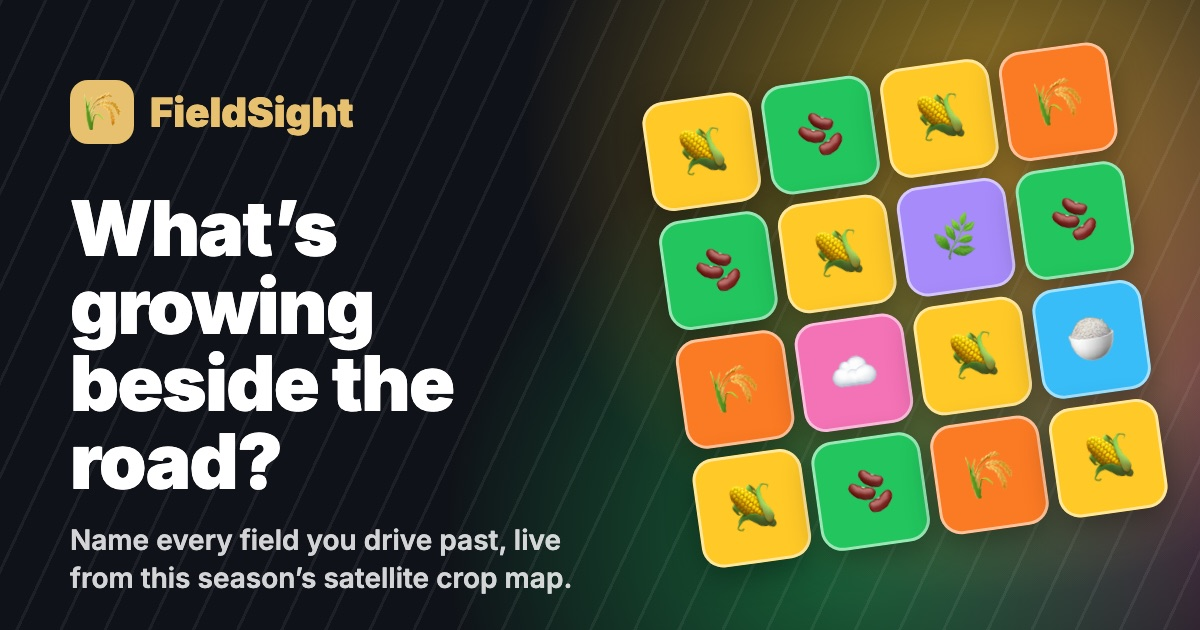
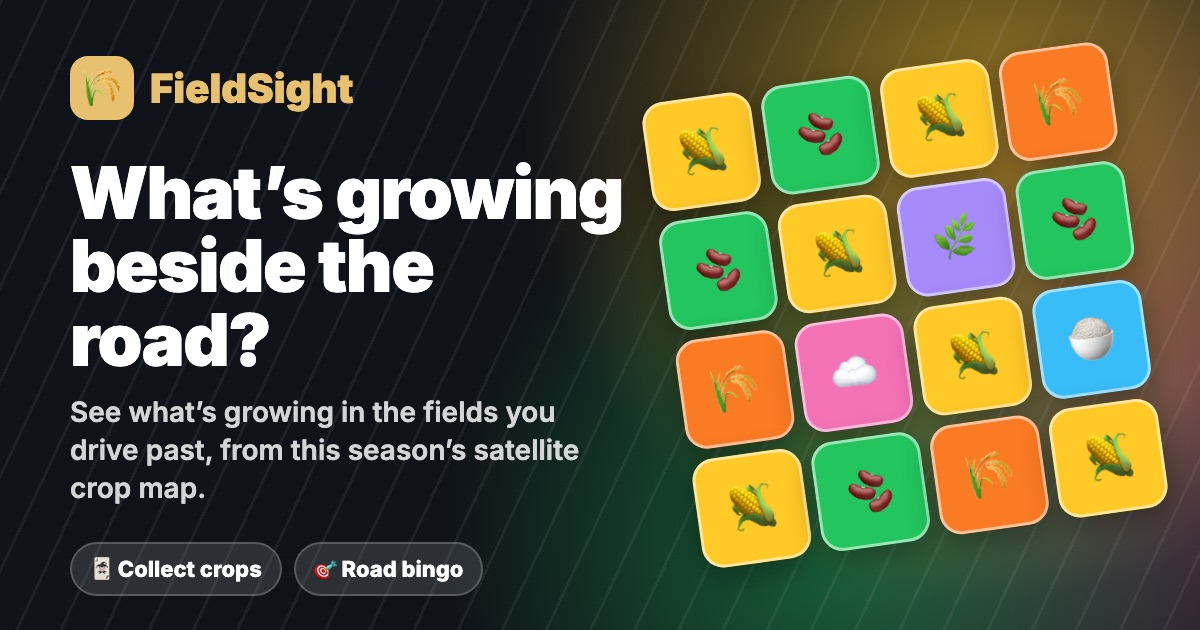
Softer wording: 'fields', not 'every field'
Walkthrough, link-preview text and preview image no longer promise every field.

Changed region(s): [[0.0308, 0.0905, 0.5242, 0.8143], [0.0617, 0.8444, 0.4933, 0.9651]]

diff --git a/tools/art/og.html b/tools/art/og.html
@@ -10,10 +10,10 @@ html,body{margin:0;width:1200px;height:630px;overflow:hidden;font-family:Inter,s
 .patch{position:absolute;right:60px;top:70px;width:470px;height:470px;display:grid;grid-template-columns:repeat(4,1fr);gap:10px;transform:rotate(-8deg)}
 .patch i{border-radius:22px;box-shadow:inset 0 0 0 3px rgba(255,255,255,.55), 0 10px 30px rgba(0,0,0,.35);display:grid;place-items:center;font-style:normal;font-size:46px}
 .c{background:#ffc928}.s{background:#22c55e}.w{background:#fb7a24}.h{background:#a78bfa}.t{background:#f472b6}.r{background:#38bdf8}
-.left{position:absolute;left:70px;top:80px;width:560px}
+.left{position:absolute;left:70px;top:56px;width:560px}
 .logo{display:flex;align-items:center;gap:16px;font-weight:900;font-size:40px;color:#e8c170}
 .logo b{display:grid;place-items:center;width:64px;height:64px;border-radius:18px;background:#e8c170;font-size:38px}
-h1{font-size:76px;line-height:1.02;font-weight:900;letter-spacing:-.02em;margin:46px 0 22px}
+h1{font-size:72px;line-height:1.02;font-weight:900;letter-spacing:-.02em;margin:36px 0 18px}
 p{font-size:28px;line-height:1.35;color:rgba(255,255,255,.82);margin:0;font-weight:600}
 .pills{display:flex;gap:12px;margin-top:34px}
 .pills span{padding:10px 18px;border-radius:999px;background:rgba(255,255,255,.12);border:2px solid rgba(255,255,255,.2);font-size:22px;font-weight:800}
@@ -25,6 +25,6 @@ p{font-size:28px;line-height:1.35;color:rgba(255,255,255,.82);margin:0;font-weig
 <i class="c">🌽</i><i class="s">🫘</i><i class="w">🌾</i><i class="c">🌽</i></div>
 <div class="left"><div class="logo"><b>🌾</b>FieldSight</div>
 <h1>What’s growing beside the road?</h1>
-<p>Name every field you drive past, live from this season’s satellite crop map.</p>
+<p>See what’s growing in the fields you drive past, from this season’s satellite crop map.</p>
 <div class="pills"><span>🃏 Collect crops</span><span>🎯 Road bingo</span></div></div>
 </body></html>

diff --git a/index.html b/index.html
@@ -12,7 +12,7 @@
   <meta property="og:type" content="website">
   <meta property="og:site_name" content="FieldSight">
   <meta property="og:title" content="FieldSight · What's growing beside the road?">
-  <meta property="og:description" content="Name every field you drive past, live from this season's satellite crop map. Collect crop cards, play road-trip bingo, and share your finds.">
+  <meta property="og:description" content="See what's growing in the fields you drive past, from this season's satellite crop map. Collect crop cards, play road-trip bingo, and share your finds.">
   <meta property="og:url" content="https://zachmartin88.github.io/fieldsight/">
   <meta property="og:image" content="https://zachmartin88.github.io/fieldsight/og.jpg">
   <meta property="og:image:width" content="1200">
@@ -20,7 +20,7 @@
   <meta property="og:image:alt" content="FieldSight: a patchwork of colorful crop fields">
   <meta name="twitter:card" content="summary_large_image">
   <meta name="twitter:title" content="FieldSight · What's growing beside the road?">
-  <meta name="twitter:description" content="Name every field you drive past, live from this season's satellite crop map.">
+  <meta name="twitter:description" content="See what's growing in the fields you drive past, from this season's satellite crop map.">
   <meta name="twitter:image" content="https://zachmartin88.github.io/fieldsight/og.jpg">
   <meta name="apple-mobile-web-app-title" content="FieldSight">
   <link rel="manifest" href="manifest.webmanifest">

diff --git a/onboarding.js b/onboarding.js
@@ -12,7 +12,7 @@ const STEPS = [
       ['#ffc928', '🌽'], ['#22c55e', '🫘'], ['#fb7a24', '🌾'], ['#ffc928', '🌽'], ['#a78bfa', '🌿'], ['#22c55e', '🫘'],
     ].map(([b, e]) => tile(b, e)).join('')}</div>`,
     title: 'Hi! I’m Kernel 🌽',
-    text: 'FieldSight shows what’s growing in every field across the lower 48, straight from <b>this season’s satellite crop map</b>.',
+    text: 'FieldSight shows what’s growing in fields across the lower 48, straight from <b>this season’s satellite crop map</b>.',
   },
   {
     art: `<div class="ob-strip"><div><small>◂ LEFT</small><b><i style="background:#ffc928">🌽</i>Corn</b><em>LIVE</em></div><div><small>RIGHT ▸</small><b><i style="background:#22c55e">🫘</i>Soybeans</b><em>LIVE</em></div></div>
